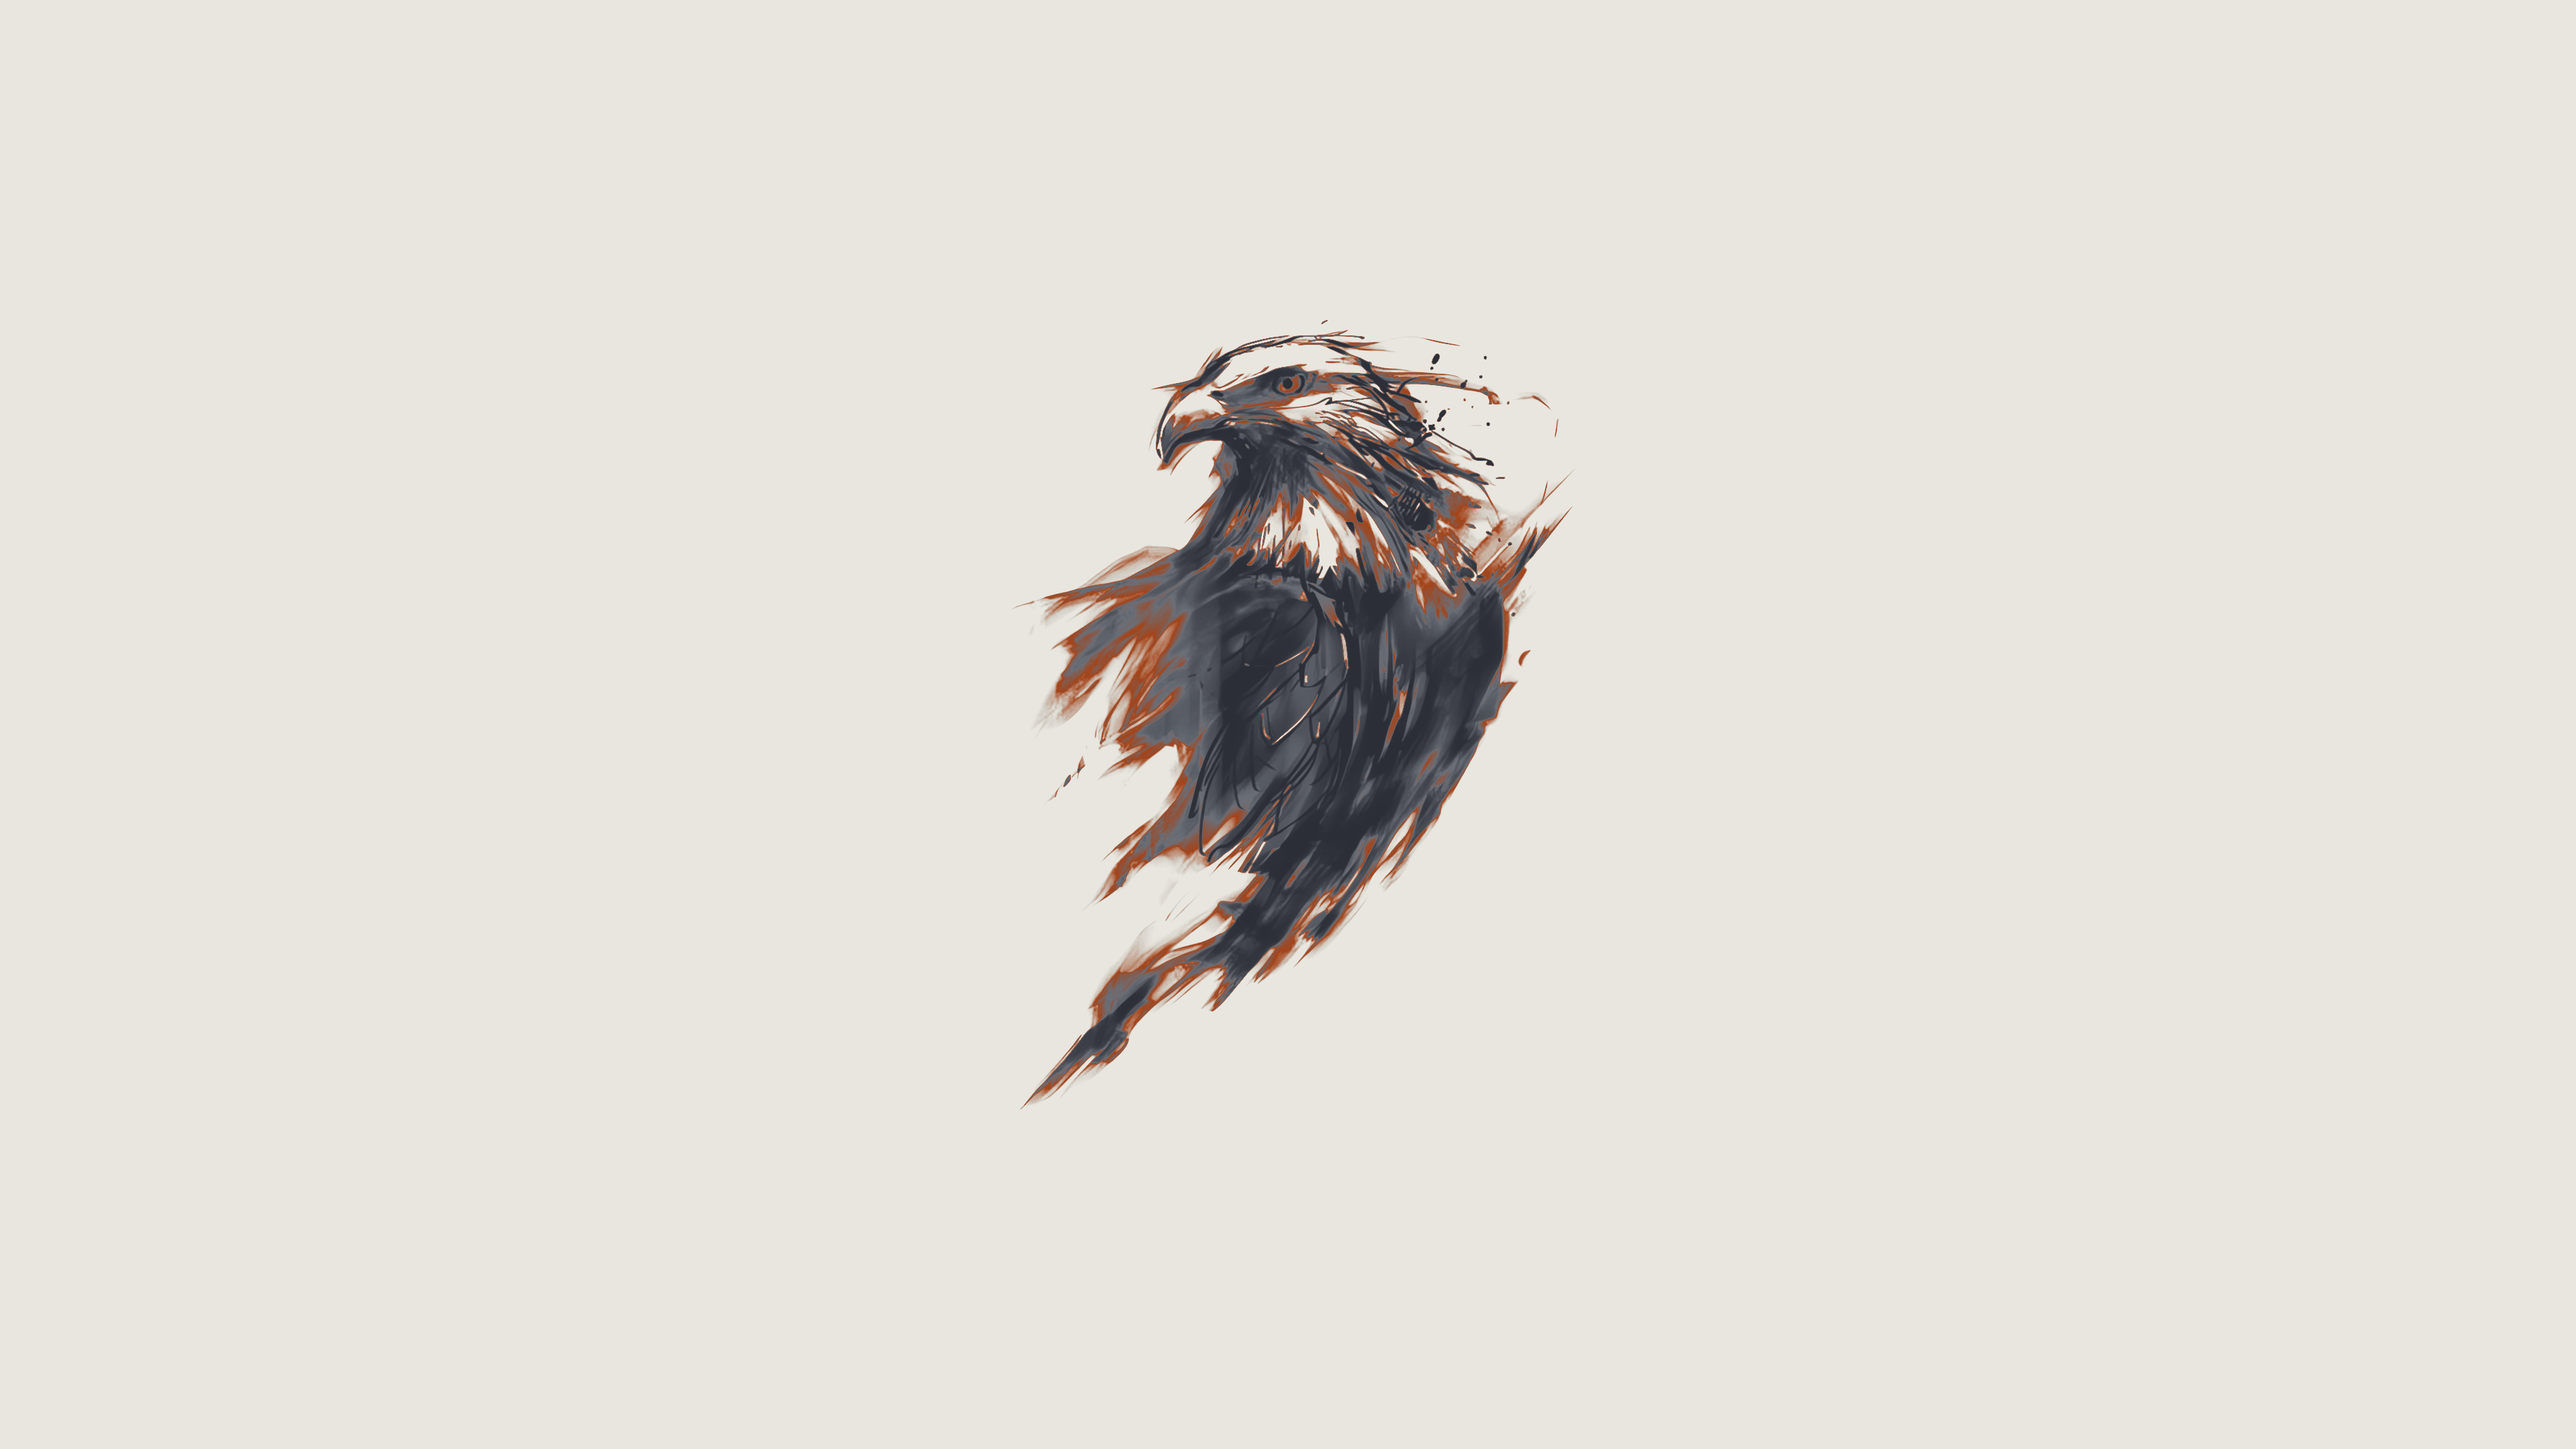
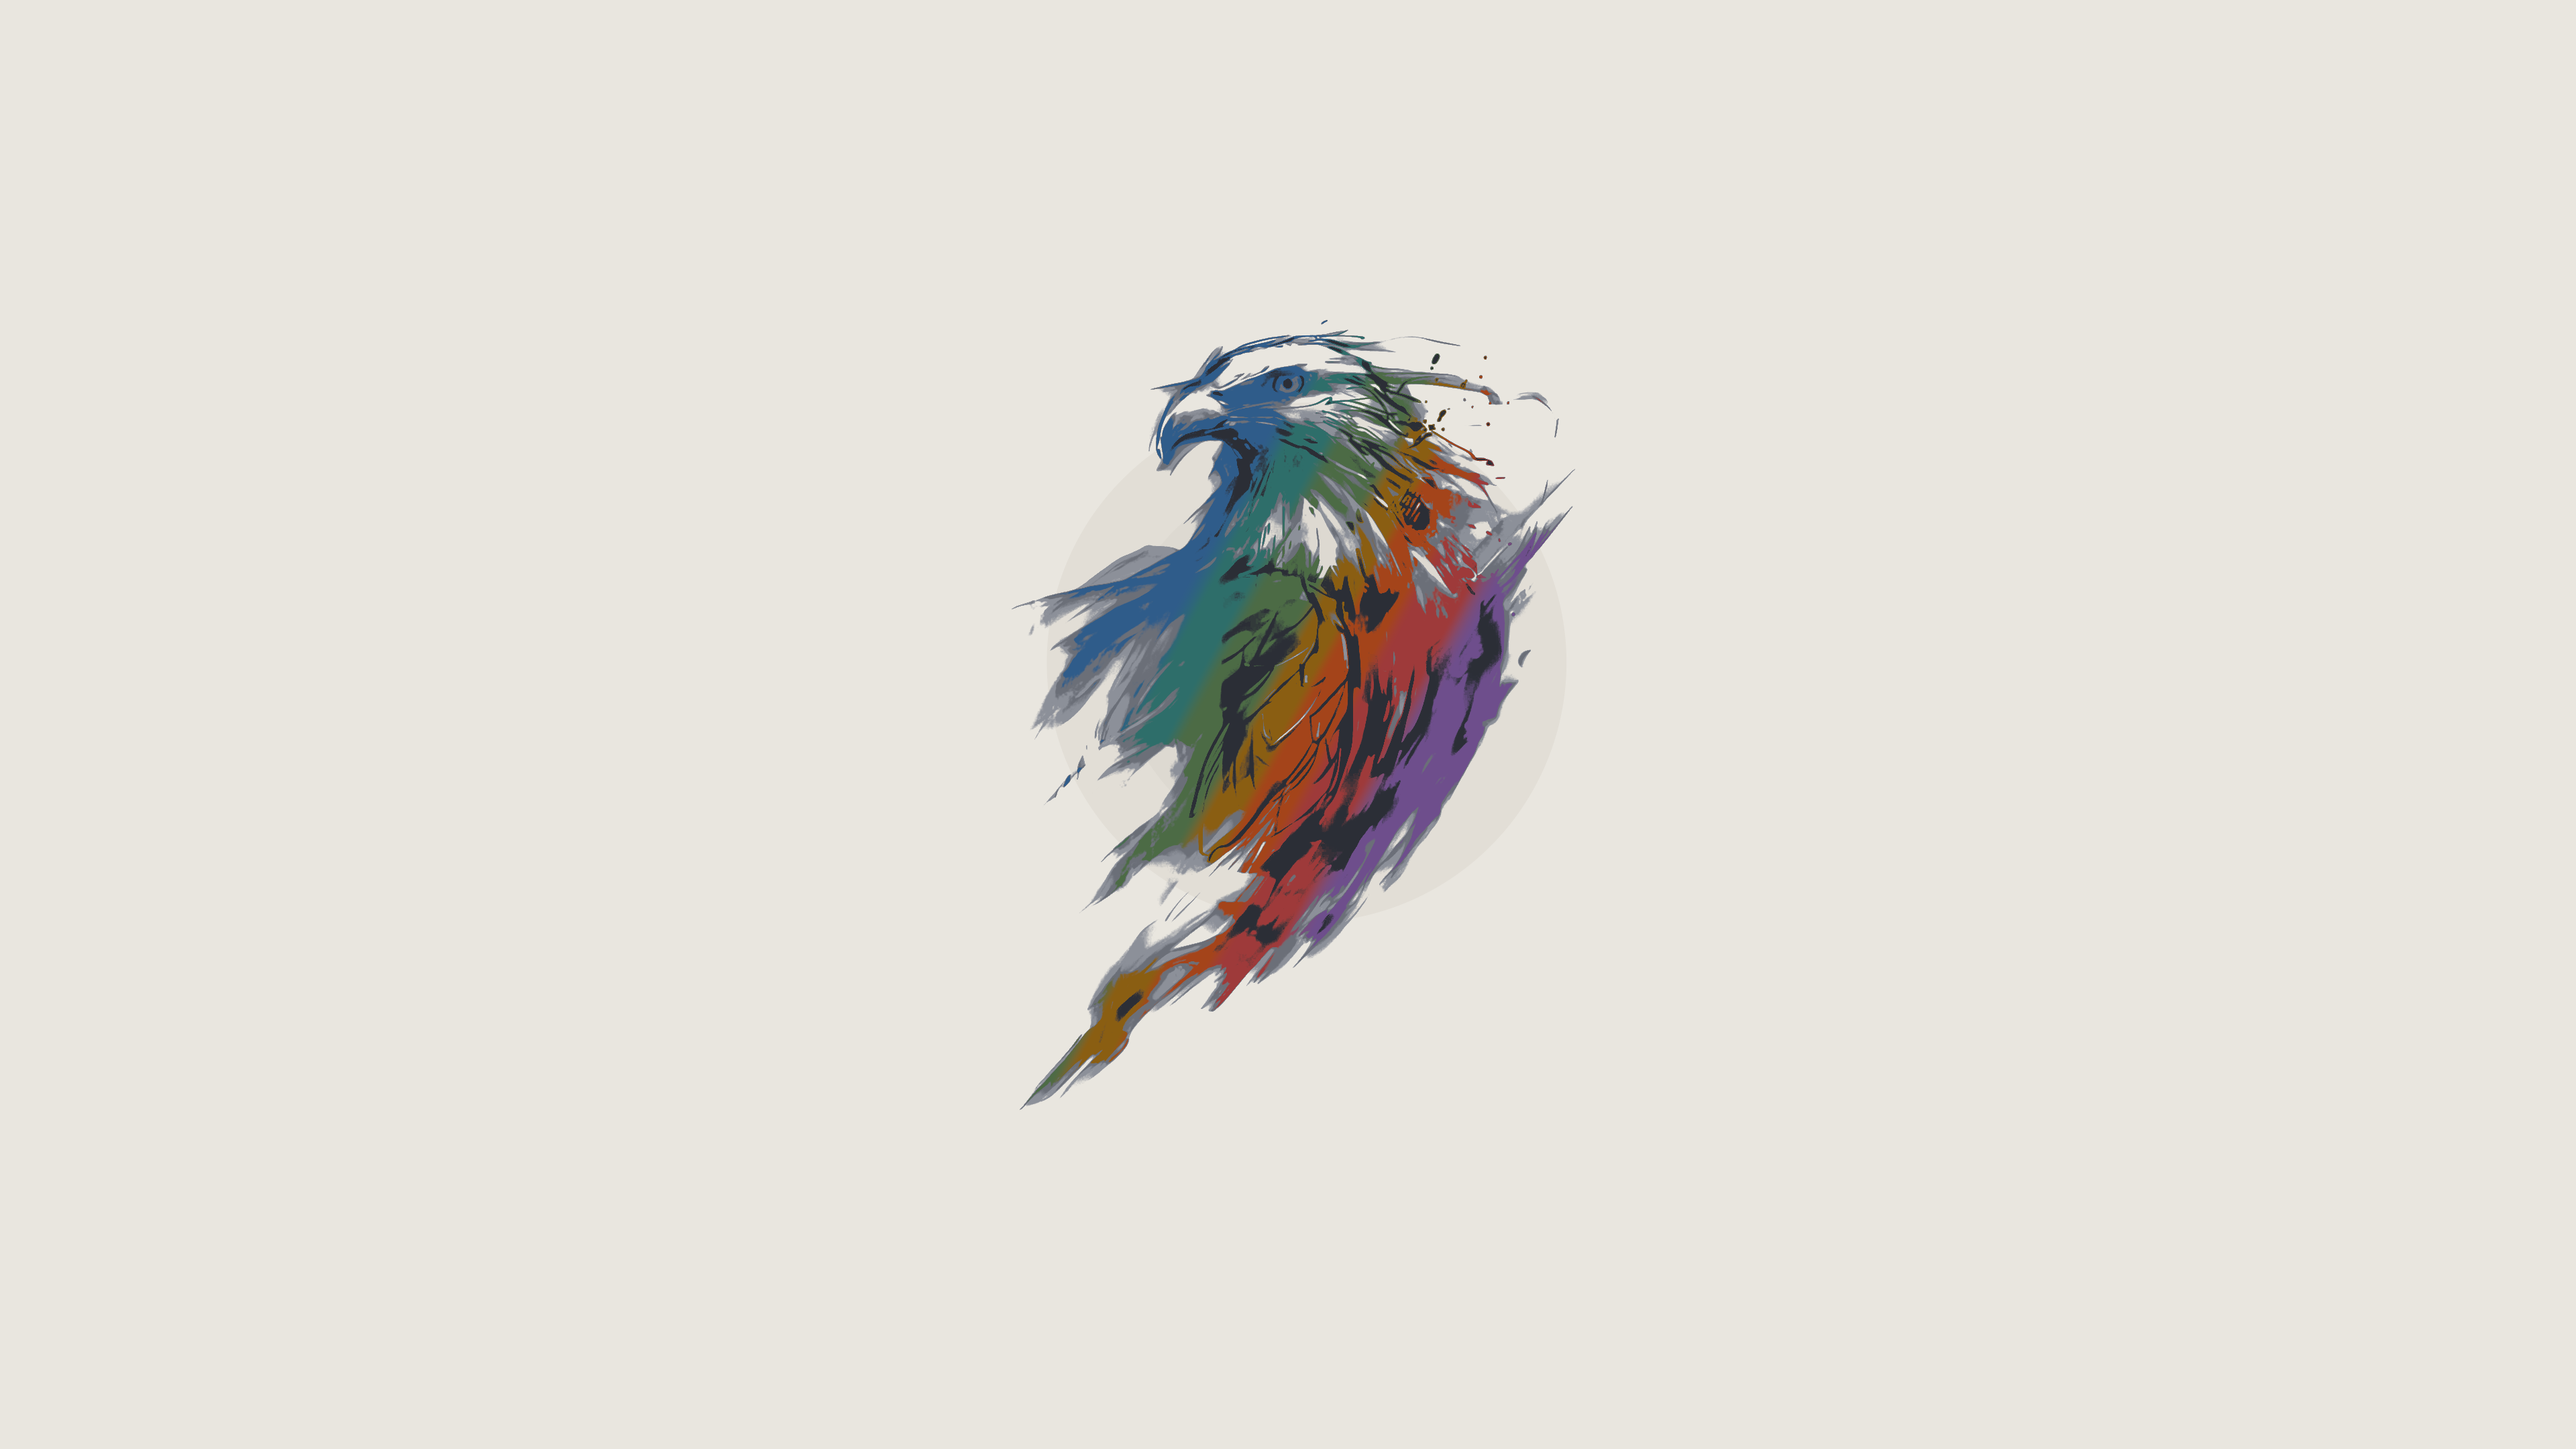
backgrounds: recolour every wallpaper with the full palette
The five wallpapers used only the neutrals and ember. They now carry all
13 colours of backgrounds/*.gpl, each as its exact hex: window paper, a
stepped pane and container disc behind the subject, comment and muted
shadows, the seven colours swept across the subject in equal-area bands,
text on the strongest lines.

scripts/wallpaper.py does the mapping and checks every colour and the
window corners before writing; wallpaper.sh now prepares the grey and
hands it over. The sources are not in the repo, so these were redone with
--v1, which recovers the grey levels from the two-tone renders.

Claude-Session: https://claude.ai/code/session_01PiNkwWbMkiGMkdhnqFjUyB

Changed region(s): [[0.4062, 0.2171, 0.625, 0.7444]]

diff --git a/scripts/wallpaper.py b/scripts/wallpaper.py
@@ -1,0 +1,230 @@
+#!/usr/bin/env python3
+"""Recolour one wallpaper with every colour of the repo palette.
+
+    python3 scripts/wallpaper.py night GREY.png OUT.png
+    python3 scripts/wallpaper.py day   GREY.png OUT.png
+    python3 scripts/wallpaper.py night --v1 backgrounds/ember-eagle.png OUT.png
+
+GREY is the cover-cropped grey render that scripts/wallpaper.sh prepares (light
+subject on dark for night, dark subject on light for day). --v1 instead reads
+a wallpaper made by the first, two-tone lookup and recovers its grey levels, so
+the shipped wallpapers can be redone without the cool-wallpapers sources.
+
+The palette is read from backgrounds/*.gpl. Each pixel gets an ink level, 0 on
+the paper and 1 on the strongest line, and runs along one ramp of roles:
+
+    ink  0.00-0.20  window, flat, so the paper lands exactly on the window
+         0.20-0.46  comment, then muted (shadows and fine lines)
+         0.46-0.80  one of the seven colours (ember, moss, amber, brick,
+                    slate blue, heather, verdigris), held flat
+         0.80-1.00  text (fog by night, ink by day) on the strongest lines
+
+Which of the seven a pixel takes depends on where it sits: the subject is
+swept on a diagonal and split into seven bands of equal ink, so each colour
+covers about a seventh of the subject. Behind the subject sits a stepped disc
+in pane and container, kept clear of the corners so they stay on the window.
+Blends between roles are mixed in OKLab; every role holds a flat band, so
+each palette colour is present as its exact hex.
+"""
+import glob
+import os
+import sys
+
+import numpy as np
+from PIL import Image
+
+W, H = 3840, 2160
+HUES = ["Slate blue", "Verdigris", "Moss", "Amber", "Ember", "Brick", "Heather"]
+SWEEP = np.deg2rad(28)  # top left to bottom right
+
+# The first lookup of scripts/wallpaper.sh, as (rows, from, to); used by --v1.
+V1 = {
+    "night": [(48, "15171C", "15171C"), (42, "15171C", "2A2F38"), (70, "2A2F38", "7C8290"),
+              (60, "7C8290", "E8713A"), (36, "E8713A", "F1D9C8")],
+    "day": [(100, "2B2E36", "6B6F78"), (50, "6B6F78", "A4441A"), (40, "A4441A", "D4CFC6"),
+            (15, "D4CFC6", "E9E6DF"), (51, "E9E6DF", "E9E6DF")],
+}
+
+
+def rgb(h):
+    return np.array([int(h[i:i + 2], 16) for i in (0, 2, 4)], dtype=np.float64)
+
+
+def palette(root):
+    gpl = glob.glob(os.path.join(root, "backgrounds", "*.gpl"))
+    assert len(gpl) == 1, f"want one .gpl in backgrounds/, found {gpl}"
+    pal = {}
+    for line in open(gpl[0]):
+        p = line.split()
+        if len(p) >= 4 and all(x.isdigit() for x in p[:3]):
+            pal[" ".join(p[3:-1])] = np.array([int(x) for x in p[:3]], dtype=np.float64)
+    return pal
+
+
+def to_lab(c):
+    c = c / 255.0
+    c = np.where(c <= 0.04045, c / 12.92, ((c + 0.055) / 1.055) ** 2.4)
+    m1 = np.array([[0.4122214708, 0.5363325363, 0.0514459929],
+                   [0.2119034982, 0.6806995451, 0.1073969566],
+                   [0.0883024619, 0.2817188376, 0.6299787005]])
+    m2 = np.array([[0.2104542553, 0.7936177850, -0.0040720468],
+                   [1.9779984951, -2.4285922050, 0.4505937099],
+                   [0.0259040371, 0.7827717662, -0.8086757660]])
+    return np.cbrt(c @ m1.T) @ m2.T
+
+
+def from_lab(L):
+    m2i = np.array([[1.0, 0.3963377774, 0.2158037573],
+                    [1.0, -0.1055613458, -0.0638541728],
+                    [1.0, -0.0894841775, -1.2914855480]])
+    m1i = np.array([[4.0767416621, -3.3077115913, 0.2309699292],
+                    [-1.2684380046, 2.6097574011, -0.3413193965],
+                    [-0.0041960863, -0.7034186147, 1.7076147010]])
+    c = np.clip((L @ m2i.T) ** 3 @ m1i.T, 0, 1)
+    c = np.where(c <= 0.0031308, c * 12.92, 1.055 * c ** (1 / 2.4) - 0.055)
+    return np.rint(c * 255).clip(0, 255).astype(np.uint8)
+
+
+def smooth(x):
+    x = np.clip(x, 0, 1)
+    return x * x * (3 - 2 * x)
+
+
+def ink_from_grey(mode, path):
+    g = np.asarray(Image.open(path).convert("I;16"), dtype=np.float32) / 65535
+    if g.shape != (H, W):
+        sys.exit(f"{path} is {g.shape[1]}x{g.shape[0]}, want {W}x{H}")
+    return g if mode == "night" else 1 - g
+
+
+def ink_from_v1(mode, path):
+    """Invert the two-tone lookup: find each colour's row, row/255 is the grey."""
+    rows = []
+    for n, a, b in V1[mode]:
+        a, b = rgb(a), rgb(b)
+        rows += [a + (b - a) * i / max(n - 1, 1) for i in range(n)]
+    rows = np.array(rows)
+    fine = np.concatenate([rows[i] + (rows[i + 1] - rows[i]) * np.linspace(0, 1, 16, endpoint=False)[:, None]
+                           for i in range(len(rows) - 1)] + [rows[-1:]])
+    grey_of_fine = np.arange(len(fine)) / 16 / 255
+    img = np.asarray(Image.open(path).convert("RGB"))
+    if img.shape[:2] != (H, W):
+        sys.exit(f"{path} is {img.shape[1]}x{img.shape[0]}, want {W}x{H}")
+    flat = img.reshape(-1, 3)
+    keys = (flat[:, 0].astype(np.int32) << 16) | (flat[:, 1].astype(np.int32) << 8) | flat[:, 2]
+    uniq, inv = np.unique(keys, return_inverse=True)
+    ucol = np.stack([uniq >> 16, (uniq >> 8) & 255, uniq & 255], 1).astype(np.float64)
+    d = ((ucol[:, None, :] - fine[None, :, :]) ** 2).sum(-1)
+    near = d.argmin(1)
+    worst = np.sqrt(d[np.arange(len(ucol)), near]).max()
+    if worst > 3:
+        sys.exit(f"{path}: a colour sits {worst:.1f} off the {mode} lookup, not a v1 render")
+    g = grey_of_fine[near][inv].reshape(H, W).astype(np.float32)
+    return g if mode == "night" else 1 - g
+
+
+def densest(mask, step=16):
+    """Centroid of the mask weighted by the square of its local density (a box
+    a sixth of the height wide), so solid shapes count and thin lines barely do."""
+    h, w = H // step, W // step
+    small = mask[:h * step, :w * step].reshape(h, step, w, step).mean((1, 3))
+    k = H // 6 // step
+    c = np.pad(small, ((k // 2 + 1, k - k // 2), (k // 2 + 1, k - k // 2))).cumsum(0).cumsum(1)
+    box = (c[k:, k:] - c[:-k, k:] - c[k:, :-k] + c[:-k, :-k])[:h, :w] / k ** 2
+    wt = small * box ** 2
+    yy, xx = np.mgrid[0:h, 0:w]
+    return ((xx * wt).sum() / wt.sum() + 0.5) * step, ((yy * wt).sum() / wt.sum() + 0.5) * step
+
+
+def rank(ink, subject):
+    """Spread the subject's ink evenly over 0.2-1 by its own distribution (ties
+    take their middle rank), so a faint render and a bold one both run the whole
+    ramp and every role lands on part of the subject."""
+    bins = np.clip((ink * 4095).astype(np.int32), 0, 4095)
+    n = np.bincount(bins[subject], minlength=4096).astype(np.float64)
+    mid = (np.cumsum(n) - n / 2) / n.sum()
+    return np.where(subject, 0.2 + 0.8 * mid[bins], ink).astype(np.float32)
+
+
+def render(mode, ink, pal):
+    lab = {k: to_lab(v) for k, v in pal.items()}
+    window = lab["Window"]
+    # outer disc is whichever of pane / container sits nearer the window
+    near, far = sorted(["Pane", "Container"], key=lambda k: abs(lab[k][0] - window[0]))
+
+    ys, xs = np.mgrid[0:H, 0:W].astype(np.float32)
+    subject = ink > 0.2
+    ink = rank(ink, subject)
+    if not subject.any():
+        sys.exit("nothing above the paper: is the mode right?")
+
+    # stepped disc behind the subject: centred where the subject is densest
+    # (so thin lines trailing off do not pull it away), wide enough for most
+    # of it, its rim kept 120 px inside every edge where the room allows
+    cx, cy = densest(subject)
+    dist = np.hypot(xs - cx, ys - cy)
+    r = 1.15 * np.percentile(dist[subject], 70)
+    r = min(r, cx - 120, W - 120 - cx, cy - 120, H - 120 - cy, 0.46 * H)
+    r = max(r, 0.16 * H)
+    outer = np.clip(r - dist + 0.5, 0, 1)[..., None]
+    inner = np.clip(0.72 * r - dist + 0.5, 0, 1)[..., None]
+    base = window + (lab[near] - window) * outer
+    base = base + (lab[far] - base) * inner
+
+    # colour sweep: equal-ink bands of the seven colours along a diagonal
+    proj = xs * np.cos(SWEEP) + ys * np.sin(SWEEP)
+    hot = (ink > 0.48) & (ink < 0.84)
+    pts = proj[hot] if hot.sum() > 1000 else proj[subject]
+    q = np.quantile(pts, np.linspace(0, 1, 513))
+    q = np.maximum.accumulate(q + np.arange(513) * 1e-4)
+    t = np.interp(proj, q, np.linspace(0, 1, 513))
+    s = np.clip(t * len(HUES) - 0.5, 0, len(HUES) - 1)
+    i = np.minimum(s.astype(np.int32), len(HUES) - 2)
+    f = smooth((s - i - 0.3) / 0.4)[..., None]
+    hues = np.array([lab[k] for k in HUES])
+    hue = hues[i] + (hues[i + 1] - hues[i]) * f
+
+    keys = [(0.20, base), (0.26, lab["Comment"]), (0.31, lab["Comment"]),
+            (0.37, lab["Muted"]), (0.42, lab["Muted"]), (0.48, hue),
+            (0.84, hue), (0.92, lab["Text"])]
+    out = np.broadcast_to(base, (H, W, 3)).copy()
+    for (a, ca), (b, cb) in zip(keys, keys[1:]):
+        m = ink > a
+        w = smooth((ink[m] - a) / (b - a))[:, None]
+        ca = ca[m] if np.ndim(ca) == 3 else ca
+        cb = cb[m] if np.ndim(cb) == 3 else cb
+        out[m] = ca + (cb - ca) * w
+    return from_lab(out.reshape(-1, 3)).reshape(H, W, 3)
+
+
+def check(img, pal, path):
+    flat = img.reshape(-1, 3)
+    missing = []
+    for k, v in pal.items():
+        n = int(np.all(flat == v.astype(np.uint8), axis=1).sum())
+        if n < 500:
+            missing.append(f"{k} ({n} px)")
+    corners = [img[0, 0], img[0, -1], img[-1, 0], img[-1, -1]]
+    if any((c != pal["Window"]).any() for c in corners):
+        missing.append("window corners")
+    if missing:
+        sys.exit(f"{path}: short of " + ", ".join(missing))
+
+
+def main(argv):
+    v1 = "--v1" in argv
+    argv = [a for a in argv if a != "--v1"]
+    if len(argv) != 3 or argv[0] not in ("night", "day"):
+        sys.exit(__doc__.split("\n\n")[1])
+    mode, src, out = argv
+    root = os.path.dirname(os.path.dirname(os.path.abspath(__file__)))
+    pal = palette(root)
+    ink = (ink_from_v1 if v1 else ink_from_grey)(mode, src)
+    img = render(mode, ink, pal)
+    check(img, pal, out)
+    Image.fromarray(img).save(out, optimize=True)
+    print(out)
+
+
+if __name__ == "__main__":
+    main(sys.argv[1:])

diff --git a/README.md b/README.md
@@ -92,7 +92,8 @@ Window hint `#A4441A`. Ratios per role are in `docs/showcase.md`, or run
 ├── scripts
 │   ├── update_system.sh         # nala + flatpak, dark ANSI for a light terminal
 │   ├── contrast.py              # palette contrast table, feeds the README
-│   └── wallpaper.sh             # renders a wallpaper from any source image
+│   ├── wallpaper.sh             # renders a wallpaper from any source image
+│   └── wallpaper.py             # maps its grey onto all 13 palette colours
 ├── zsh
 │   ├── emberday.zsh             # LS_COLORS, highlighting colours, aliases, starship
 │   └── install.sh
@@ -331,6 +332,19 @@ source renders with one command:
 
 ```bash
 ./scripts/wallpaper.sh day path/to/source.png backgrounds/emberday-<subject>.png
+```
+
+Every wallpaper carries all 13 palette colours, each as its exact hex: the paper is
+the window, a stepped disc of pane and container sits behind the subject, comment
+and muted draw the shadows, the seven colours (slate blue, verdigris, moss, amber,
+ember, brick, heather) sweep across the subject on a diagonal in bands of equal
+area, and text takes the strongest lines. `scripts/wallpaper.py` reads the colours
+from `backgrounds/emberday.gpl`, refuses to write a wallpaper short of any of them or
+whose corners are off the window, and with `--v1` re-renders a wallpaper made by the
+first two-tone lookup without its source:
+
+```bash
+python3 scripts/wallpaper.py day --v1 backgrounds/emberday-<subject>.png backgrounds/emberday-<subject>.png
 ```
 
 Settings → Wallpaper → Add image → a file from `backgrounds/`.
